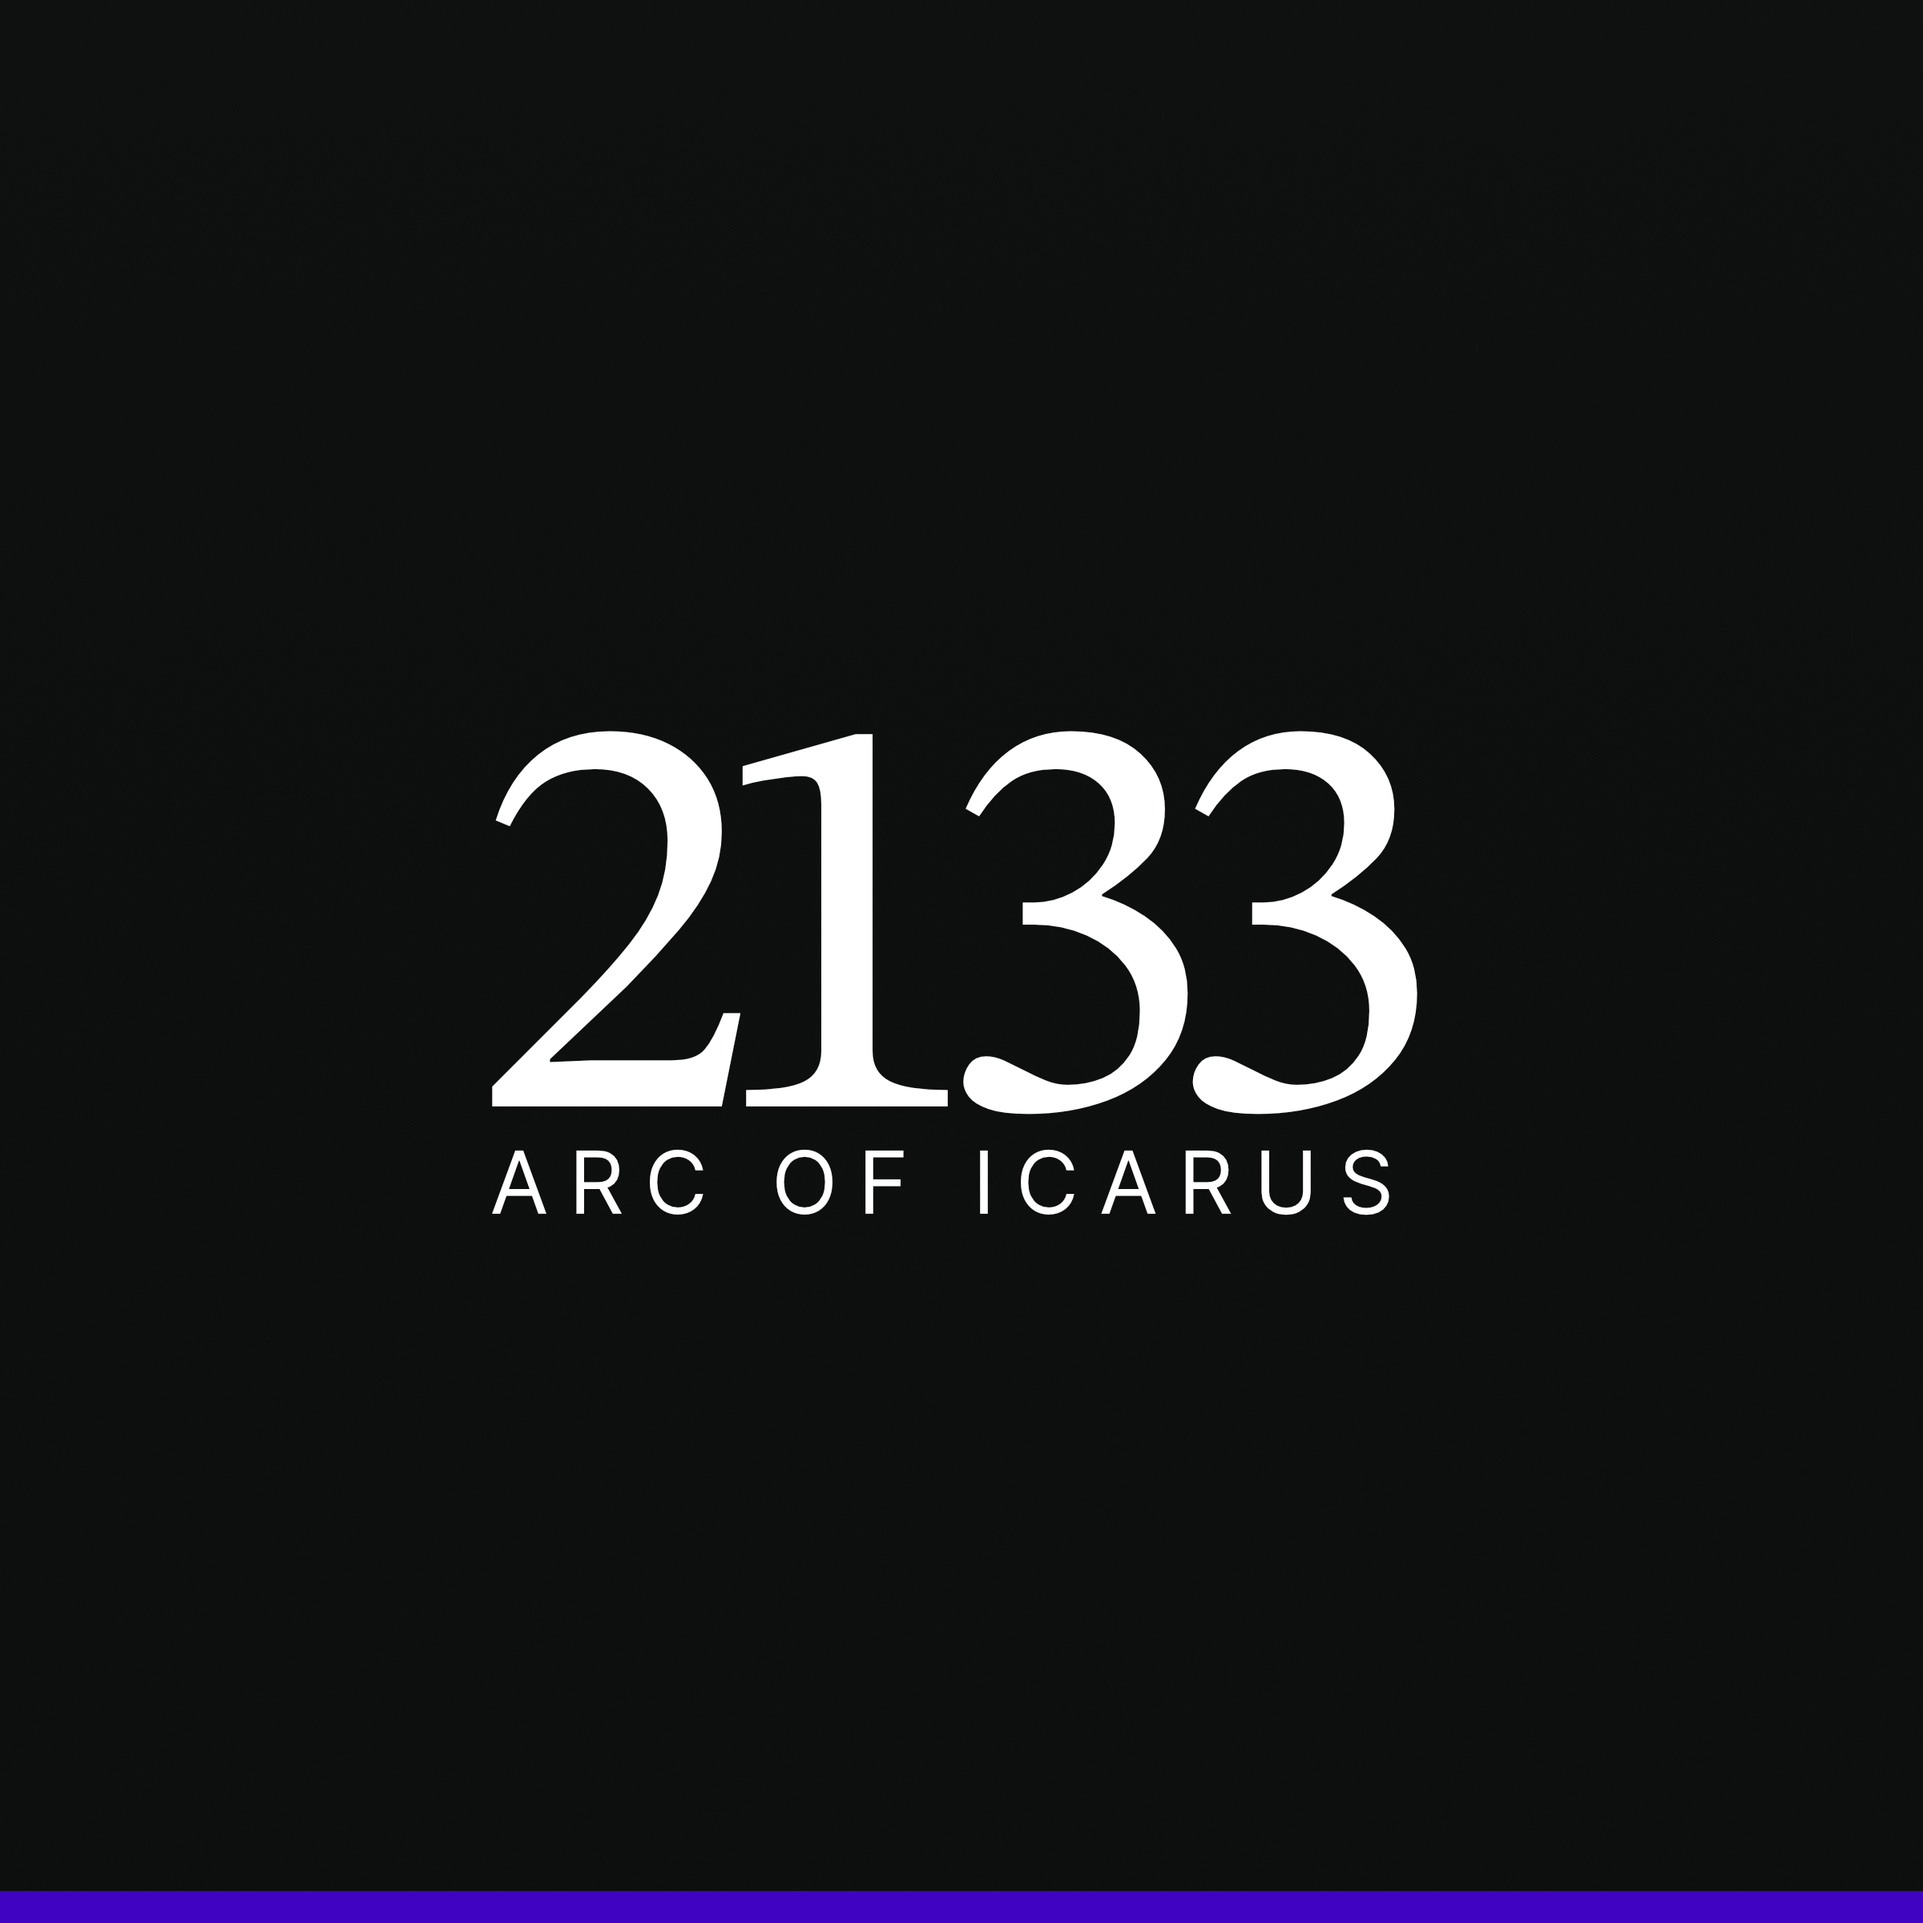
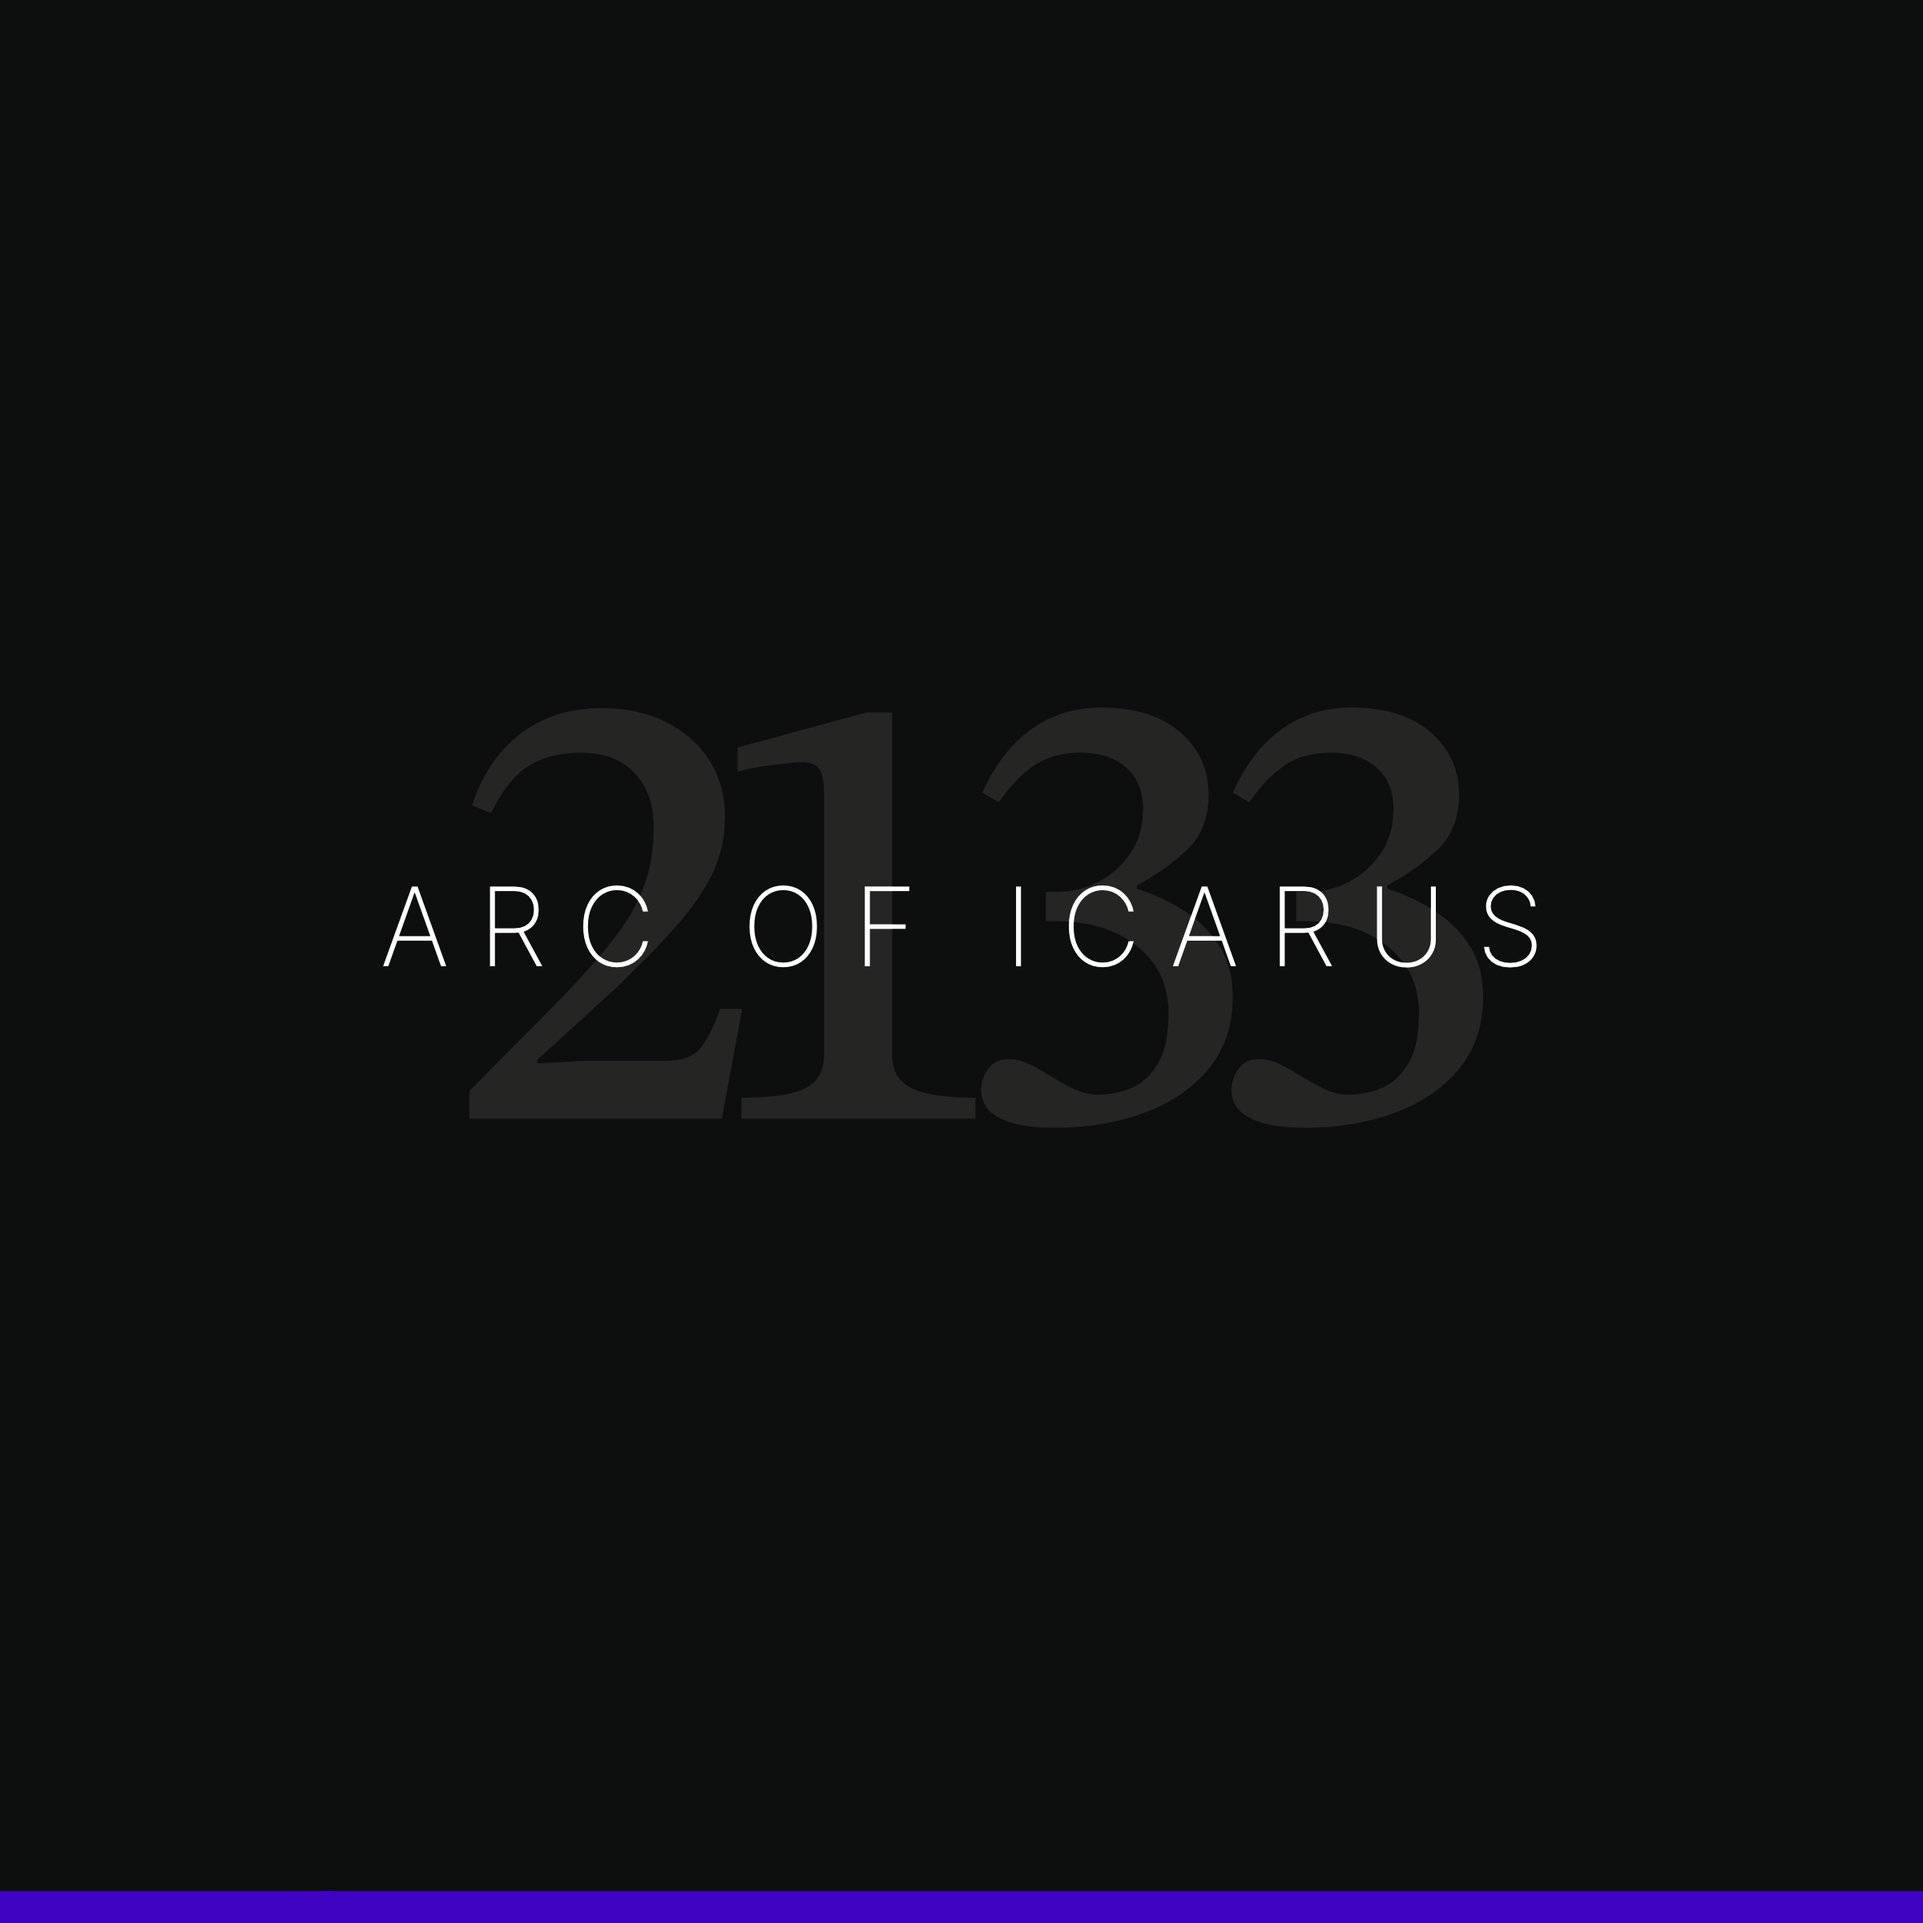
2133 and minor edits

Changed region(s): [[0.25, 0.375, 0.75, 0.625], [0.1875, 0.4688, 0.2812, 0.5], [0.7812, 0.4688, 0.8125, 0.5]]

diff --git a/works/2133.html b/works/2133.html
@@ -12,6 +12,7 @@ description:
 	</div>
 </section>
 
+<section></section>
 <div class="grid-flex flex">
 	<div>
 		<h3>Units in Communion</h3>
@@ -20,23 +21,22 @@ description:
 		the face of the unknown. The three units personify the fundamental elements of humankind, called to commune amidst the
 		vastness of outer space.</p>
 	</div>
-
 	<div>
 		<p>
-			<img src="{{ site.baseurl }}/images/CSPC_GRAPHIC-TL.png" alt="CSPC Tagline" class="border-img" />
+			<img src="{{ site.baseurl }}/images/2133/2133-Grphk2.png" alt="2133 Logo" />
 		</p>
 	</div>
 </div>
 
 <section>
-<h2></h2>
-	<p></p>
-
+	<div class="works-container">
+			<img src="{{ site.baseurl }}/images/2133/2133-Grphk3.png" alt="Mind, Body, and Nature Graphic" />
+		</div>
+</div>
 </section>
 
 <section>
+</section>
 
-
-
-
+<section>
 </section>

diff --git a/_sass/layout.scss b/_sass/layout.scss
@@ -28,6 +28,25 @@
 	}
 }
 
+.works-container {
+	position: relative;
+	color: white;
+}
+
+/* Top left text */
+.top-left {
+	position: absolute;
+	top: 40px;
+	left: 100px;
+  }
+
+  /* Top right text */
+.top-right {
+	position: absolute;
+	top: 40px;
+	right: 100px;
+  }
+
 @media screen and (min-width: 80rem) {
 .hover-section {
 	max-width: 60rem;

diff --git a/works/SPC.html b/works/SPC.html
@@ -28,7 +28,7 @@ description:
 
 		<div>
 			<p>
-				<img src="{{ site.baseurl }}/images/CSPC_GRAPHIC-TL.png" alt="CSPC Tagline" class="border-img" />
+				<img src="{{ site.baseurl }}/images/CSPC_GRAPHIC-TL.png" alt="CSPC Tagline" />
 			</p>
 		</div>
 	</div>
